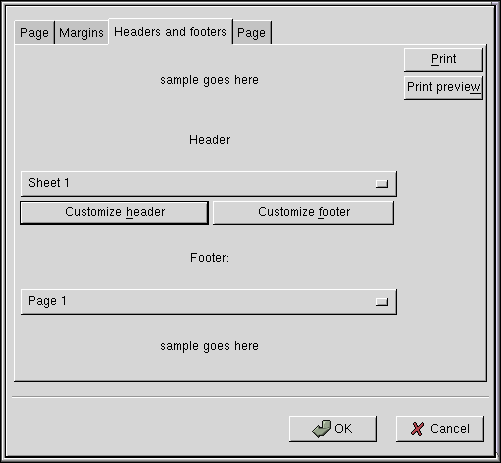
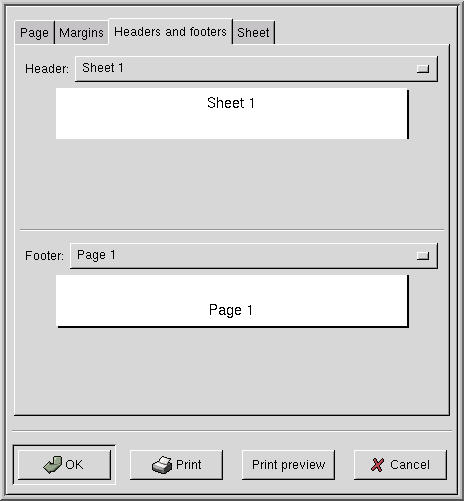
Improve Update and improve updated updated updated new figure new figure
2001-12-22 Wayne Schuller <k_wayne@linuxpower.org>

	* introduction.sgml : Improve
	* printing.sgml : Update and improve
	* figures/printing-setup-header.png : updated
	* figures/printing-setup-margins.png : updated
	* figures/printing-setup-page.png : updated
	* figures/printing-setup-header-config.png : new figure
	* figures/printing-setup-sheet.png : new figure
	* figures/sample_gnumeric.png : new figure

Changed region(s): [[0.0, 0.0, 1.0, 1.0], [0.3319, 0.7257, 0.5129, 0.7559]]

diff --git a/src/dialogs/dialog-printer-setup.c b/src/dialogs/dialog-printer-setup.c
@@ -1064,14 +1064,11 @@ hf_customize_apply (GnomePropertyBox *dialog, gint page_num, PrinterSetupState *
 	display_hf_preview (state, header);
 }
 
-/* FIXME: Finish. */
 static void
 hf_customize_help (GnomePropertyBox *dialog, gint page_num, gpointer data)
 {
-#if 0
-	GnomeHelpMenuEntry help_ref = { "gnumeric", "customize_hf.html" };
+	GnomeHelpMenuEntry help_ref = { "gnumeric", "print-setup.html#PRINT-SETUP-HEADER-CONFIG" };
 	gnome_help_display (NULL, &help_ref);
-#endif
 }
 
 /*
